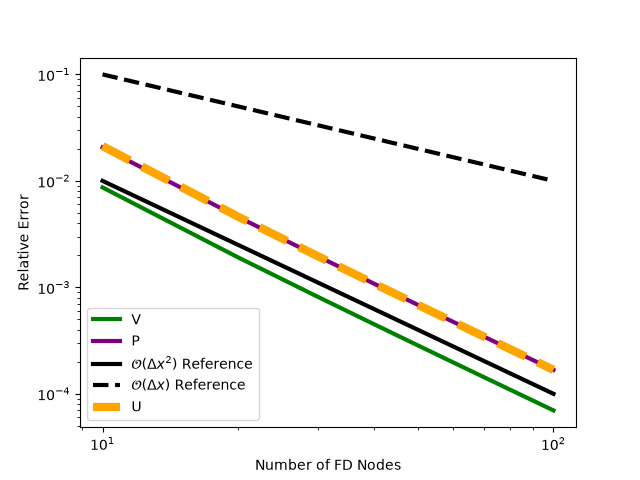
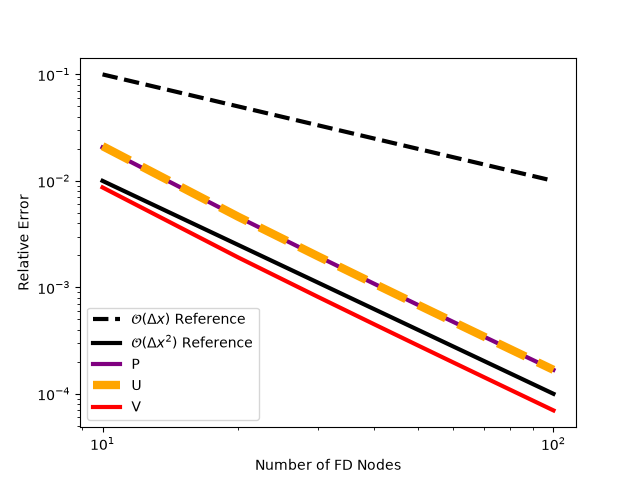
fixed legend on convergence

diff --git a/Scripts/stokes_solver_v2.py b/Scripts/stokes_solver_v2.py
@@ -228,11 +228,11 @@ def convTest(mesh_range, num_trials, exact_sol, num_Operator, x, y, BCs, filepat
     fig3 = plt.figure(3)
     ax3 = plt.axes()
     plt.rcParams['lines.linewidth'] = 3 
-    plt.loglog(meshes, L_2[1,:], label = "V", color = 'green')
-    plt.loglog(meshes, L_2[2,:], label = "P", color = 'purple')
-    plt.loglog(meshes, 1/meshes**2, label = r"$\mathcal{O}(\Delta x^2)$ Reference", color = 'black')
     plt.loglog(meshes, 1/meshes, label = r"$\mathcal{O}(\Delta x)$ Reference", color = 'black', linestyle = '--')
+    plt.loglog(meshes, 1/meshes**2, label = r"$\mathcal{O}(\Delta x^2)$ Reference", color = 'black')
+    plt.loglog(meshes, L_2[2,:], label = "P", color = 'purple')
     plt.loglog(meshes, L_2[0,:], label = "U", color = 'orange', linestyle = '--', linewidth = 6)
+    plt.loglog(meshes, L_2[1,:], label = "V", color = 'red')
     plt.legend()
     ax3.set_xlabel("Number of FD Nodes")
     ax3.set_ylabel("Relative Error")
